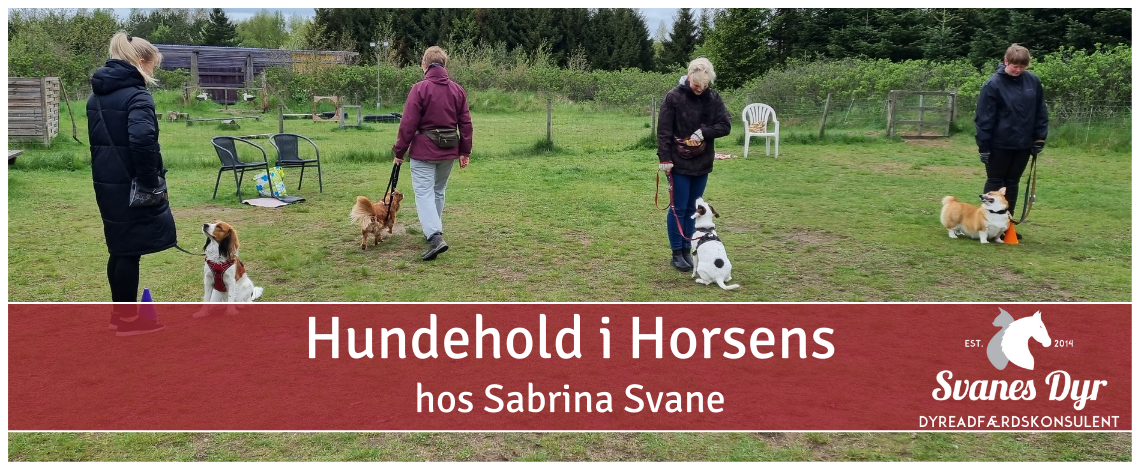
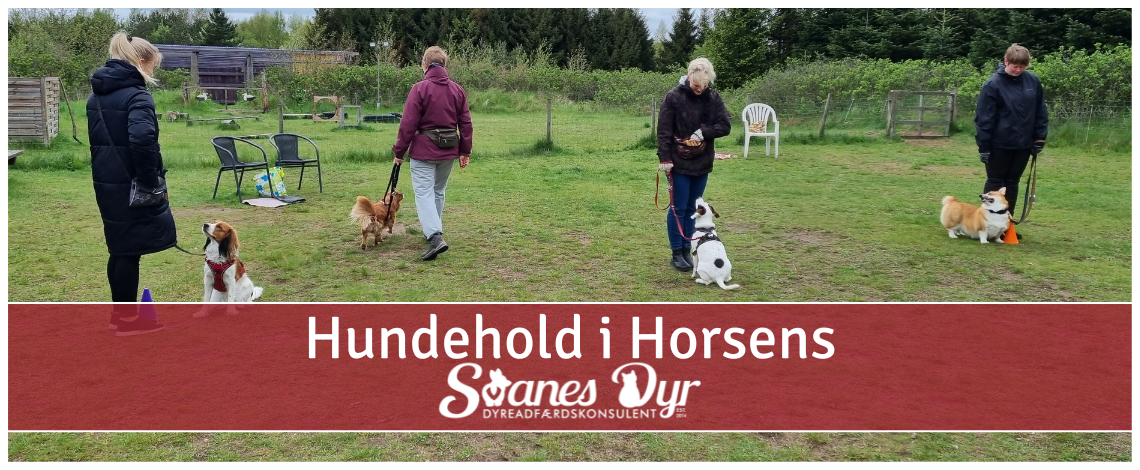
Ændret cover på takkeside Tilføjet takkeside til januarhvalpene

Changed region(s): [[0.7982, 0.6553, 0.9825, 0.9234], [0.3684, 0.7745, 0.6447, 0.8936]]

diff --git a/src/pages/DogPuppyThanks.js b/src/pages/DogPuppyThanks.js
@@ -1,0 +1,92 @@
+import React from 'react';
+import styled from 'styled-components';
+
+import {
+  LandingpageOnline,
+  Column,
+  TitleCenter,
+  TextCenter,
+  Image,
+  Row,
+  EasyMeList,
+} from '../components';
+import Responsive from '../components/layout/Responsive';
+import { OnlineCoverPuppyCourse } from '../assets';
+import '../components/table/TableCss.css';
+
+const DogPuppyThanks = () => (
+  <LandingpageOnline>
+    <Background>
+      <Row>
+        <Column widthPercentage="100%">
+          <Image src={OnlineCoverPuppyCourse} />
+          <br />
+          <TitleCenter text="Wooohoooo! Du er med!" />
+          <TextCenter>
+            Tusind tak for din investering i din hvalp og jeres fremtid sammen!
+          </TextCenter>
+        </Column>
+      </Row>
+
+      <Row>
+        <Column widthPercentage="100%">
+          <TitleCenter text="Du får lige straks en bekræftelse på mail med oplysninger om din holdtilmelding" />
+          <TextCenter>
+            Føler du dig snydt, så tjek din spam mappe - måske putter jeg mig der.
+          </TextCenter>
+        </Column>
+      </Row>
+
+      <Row>
+        <Column widthPercentage="100%">
+          <TitleCenter color="#872f35" text="Vil du sikre dig en plads på forløbet efter hvalpeholdets afslutning?" />
+          <TextCenter>
+            Jeg oplever stor efterspørgsel på mine holdforløb og er ofte booket et par måneder i forvejen. 
+            Da jeg rigtig gerne vil tilgodese dig og din hvalp, får du tilbuddet om en plads på fortsætterholdet allerede nu, inden det er overtegnet.
+          </TextCenter>
+          <TextCenter>
+            Tænker du allerede nu, at du vil have flest mulige uger med succesfuldt samarbejde med din hvalp?<br />
+            At få flere input til hverdagens lydighed med fokus på ro?<br />
+            Ikke mindst at kunne hente gode råd når din hvalp bliver teenager?<br />
+            Så har du muligheden for at få det hele med på et Hvalpe-Fortsætterhold.
+            <br />
+            <br />
+          </TextCenter>
+          <TitleCenter text="Book din plads inden hvalpeholdet starter og få 10% i rabat." />
+          <TextCenter color="#008037" bold>
+          Du skal blot bruge rabatkoden: JanuarHvalp
+          </TextCenter>
+          <TextCenter>
+            Når du vælger at reservere plads på ét af de efterfølgende Hvalpe-Fortsætterhold:
+          </TextCenter>
+          <EasyMeList src="https://ezme.io/x/x1S/LpuB" />
+        </Column>
+      </Row>
+
+      <Row>
+        <Column widthPercentage="100%">
+        <TextCenter>
+            Jeg glææææder mig til at se både dig og din hvalp til det kommende hvalpehold!
+            <br />
+          </TextCenter>
+          <TitleCenter color="#872f35" text="Vi ses inden længe!" />
+        </Column>
+      </Row>
+
+      <br />
+      <br />
+    </Background>
+  </LandingpageOnline>
+);
+
+export default DogPuppyThanks;
+
+const Background = styled.div`
+  background: #fff;
+  display: flex;
+  justify-content: center;
+  flex-direction: column;
+  ${Responsive.media.tablet`
+    padding: 15px;
+  `}
+`;

diff --git a/src/App.js b/src/App.js
@@ -29,6 +29,7 @@ import {
   DogNailClip,
   DogPlay,
   DogPuppy,
+  DogPuppyThanks,
   DogContinued,
   DogCool,
   DogCoolContinued,
@@ -96,6 +97,7 @@ const App = () => {
         <Route path="/hundehold/noseworkintro" element={<DogNoseWork />} />
         <Route path="/hundehold/legestue" element={<DogPlay />} />
         <Route path="/hundehold/hvalpehold" element={<DogPuppy />} />
+        <Route path="/hundehold/hvalpehold/tusindtak" element={<DogPuppyThanks />} />
         <Route path="/hundehold/indkald" element={<DogRecall />} />
         <Route path="/hundehold/socialisering" element={<DogSocial />} />
         <Route path="/hundehold/tryghundepleje" element={<DogStylist />} />

diff --git a/src/assets/index.js b/src/assets/index.js
@@ -85,6 +85,7 @@ export { default as OnlineCoverDogPlay } from './OnlineCoverDogPlay.png';
 export { default as OnlineCoverWalk } from './OnlineCoverWalk.png';
 export { default as OnlineCoverCourse } from './OnlineCoverHold.png';
 export { default as OnlineCoverPuppyFive } from './OnlineCoverHvalp5.png';
+export { default as OnlineCoverPuppyCourse } from './OnlineCoverHvalpehold.png';
 export { default as OnlineCoverPuppy } from './OnlineCoverPuppy.png';
 export { default as OnlineCoverSummer } from './OnlineCoverSummer.png';
 export { default as OnlinePupOne } from './OnlinePup1.png';

diff --git a/src/pages/index.js b/src/pages/index.js
@@ -11,6 +11,7 @@ export { default as DogNailClip } from './DogNailClip';
 export { default as DogNoseWork } from './DogNoseWork';
 export { default as DogPlay } from './DogPlay';
 export { default as DogPuppy } from './DogPuppy';
+export { default as DogPuppyThanks } from './DogPuppyThanks';
 export { default as DogContinued } from './DogContinued';
 export { default as DogCool } from './DogCool';
 export { default as DogCoolContinued } from './DogCoolContinued';
